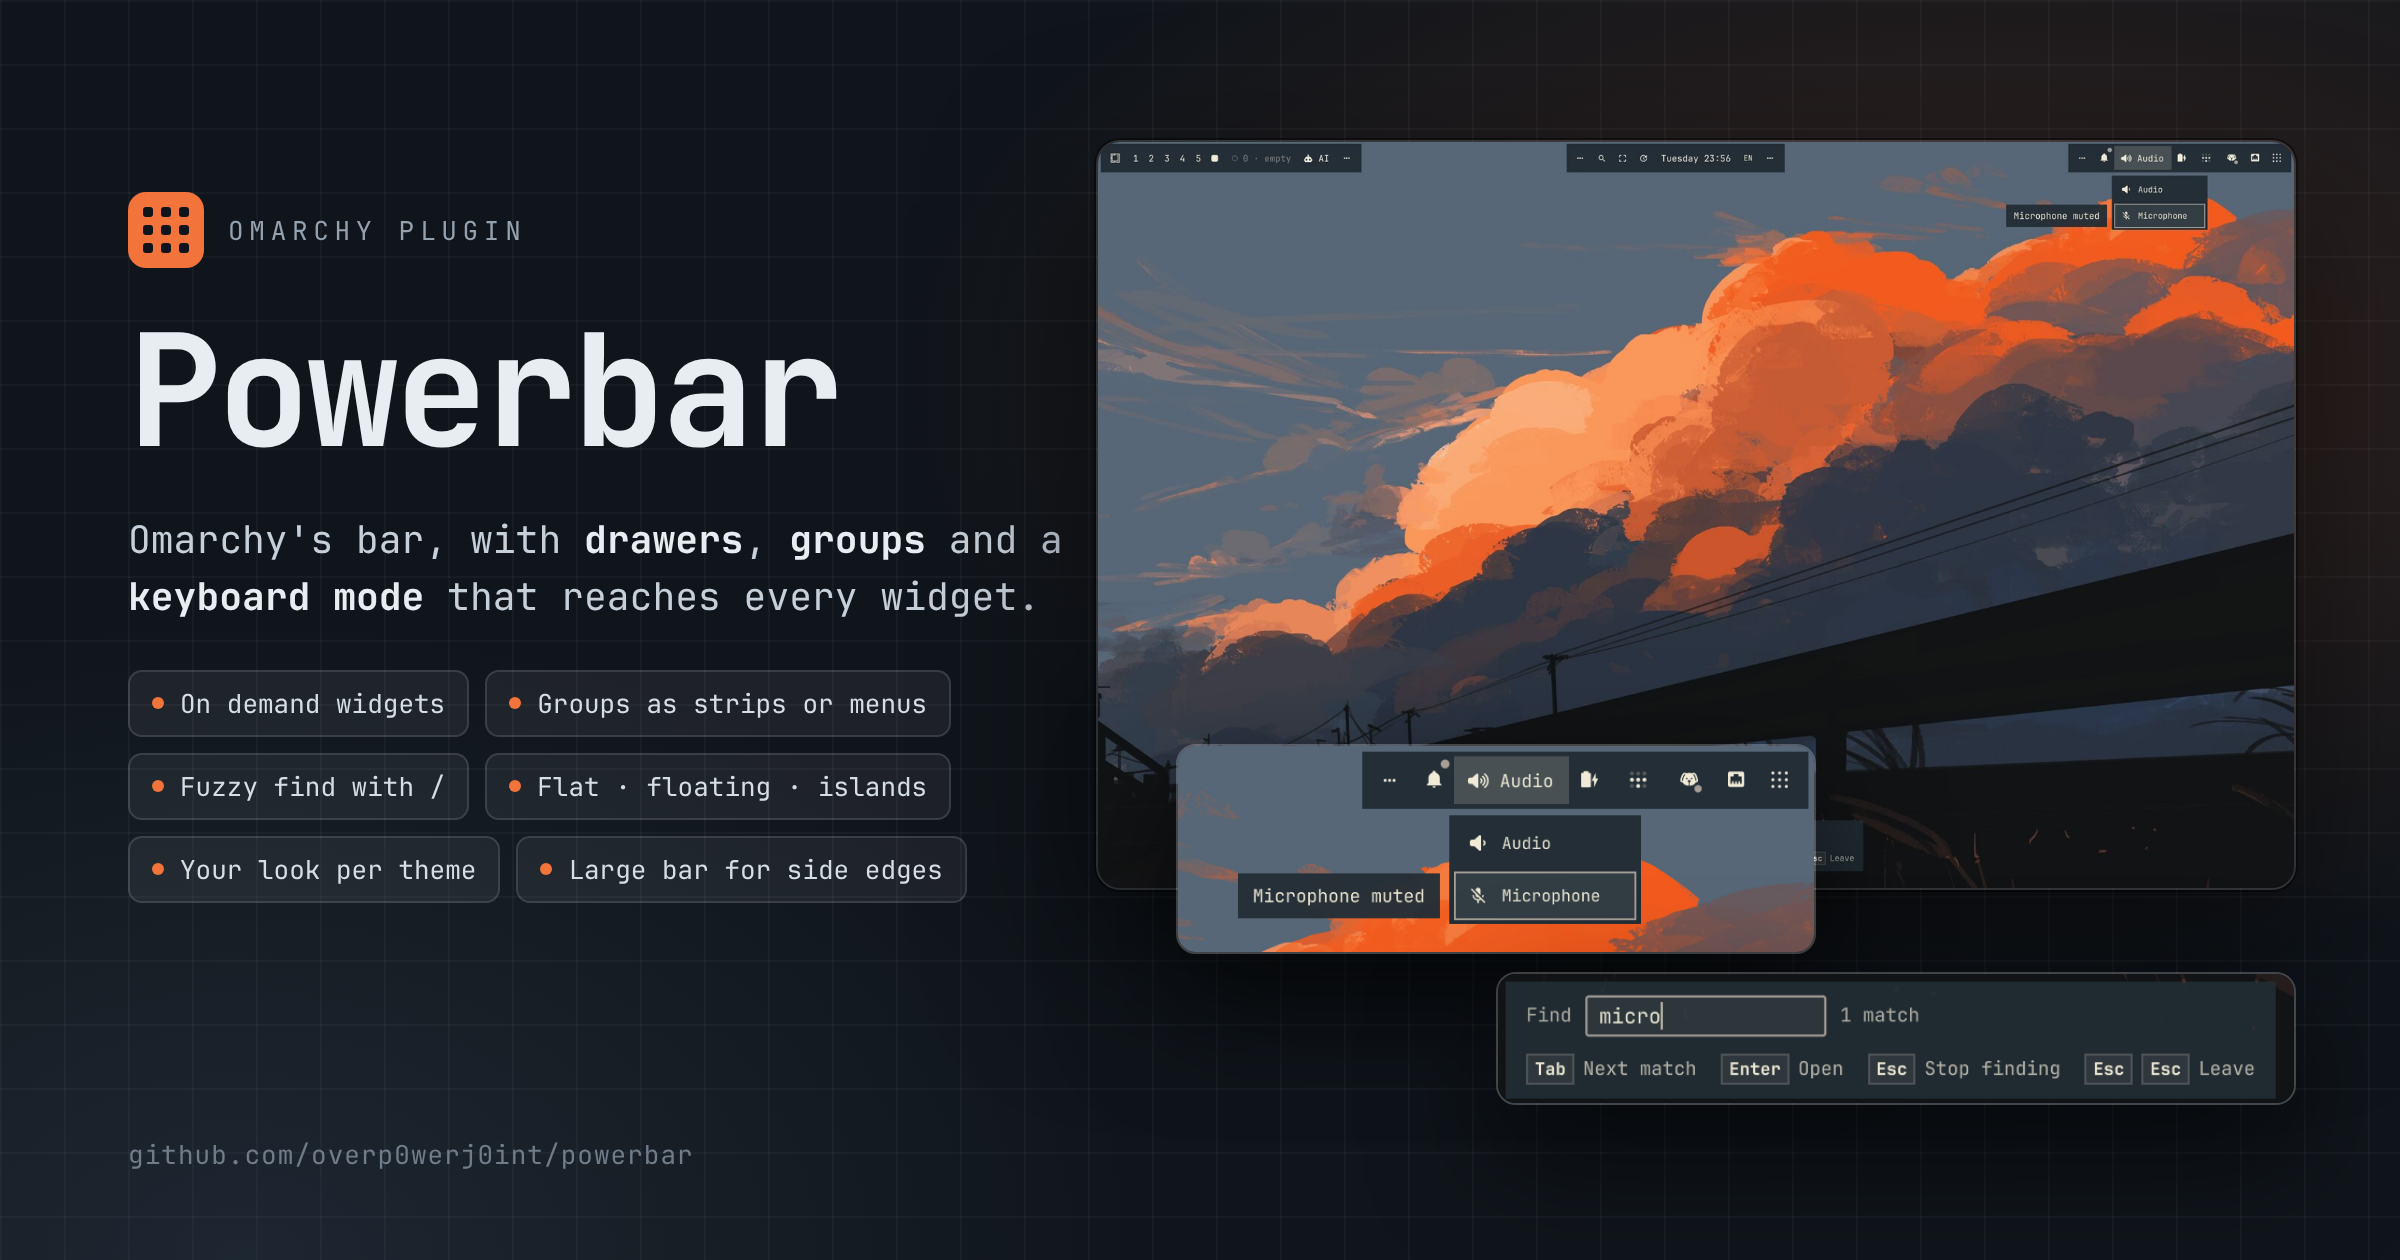
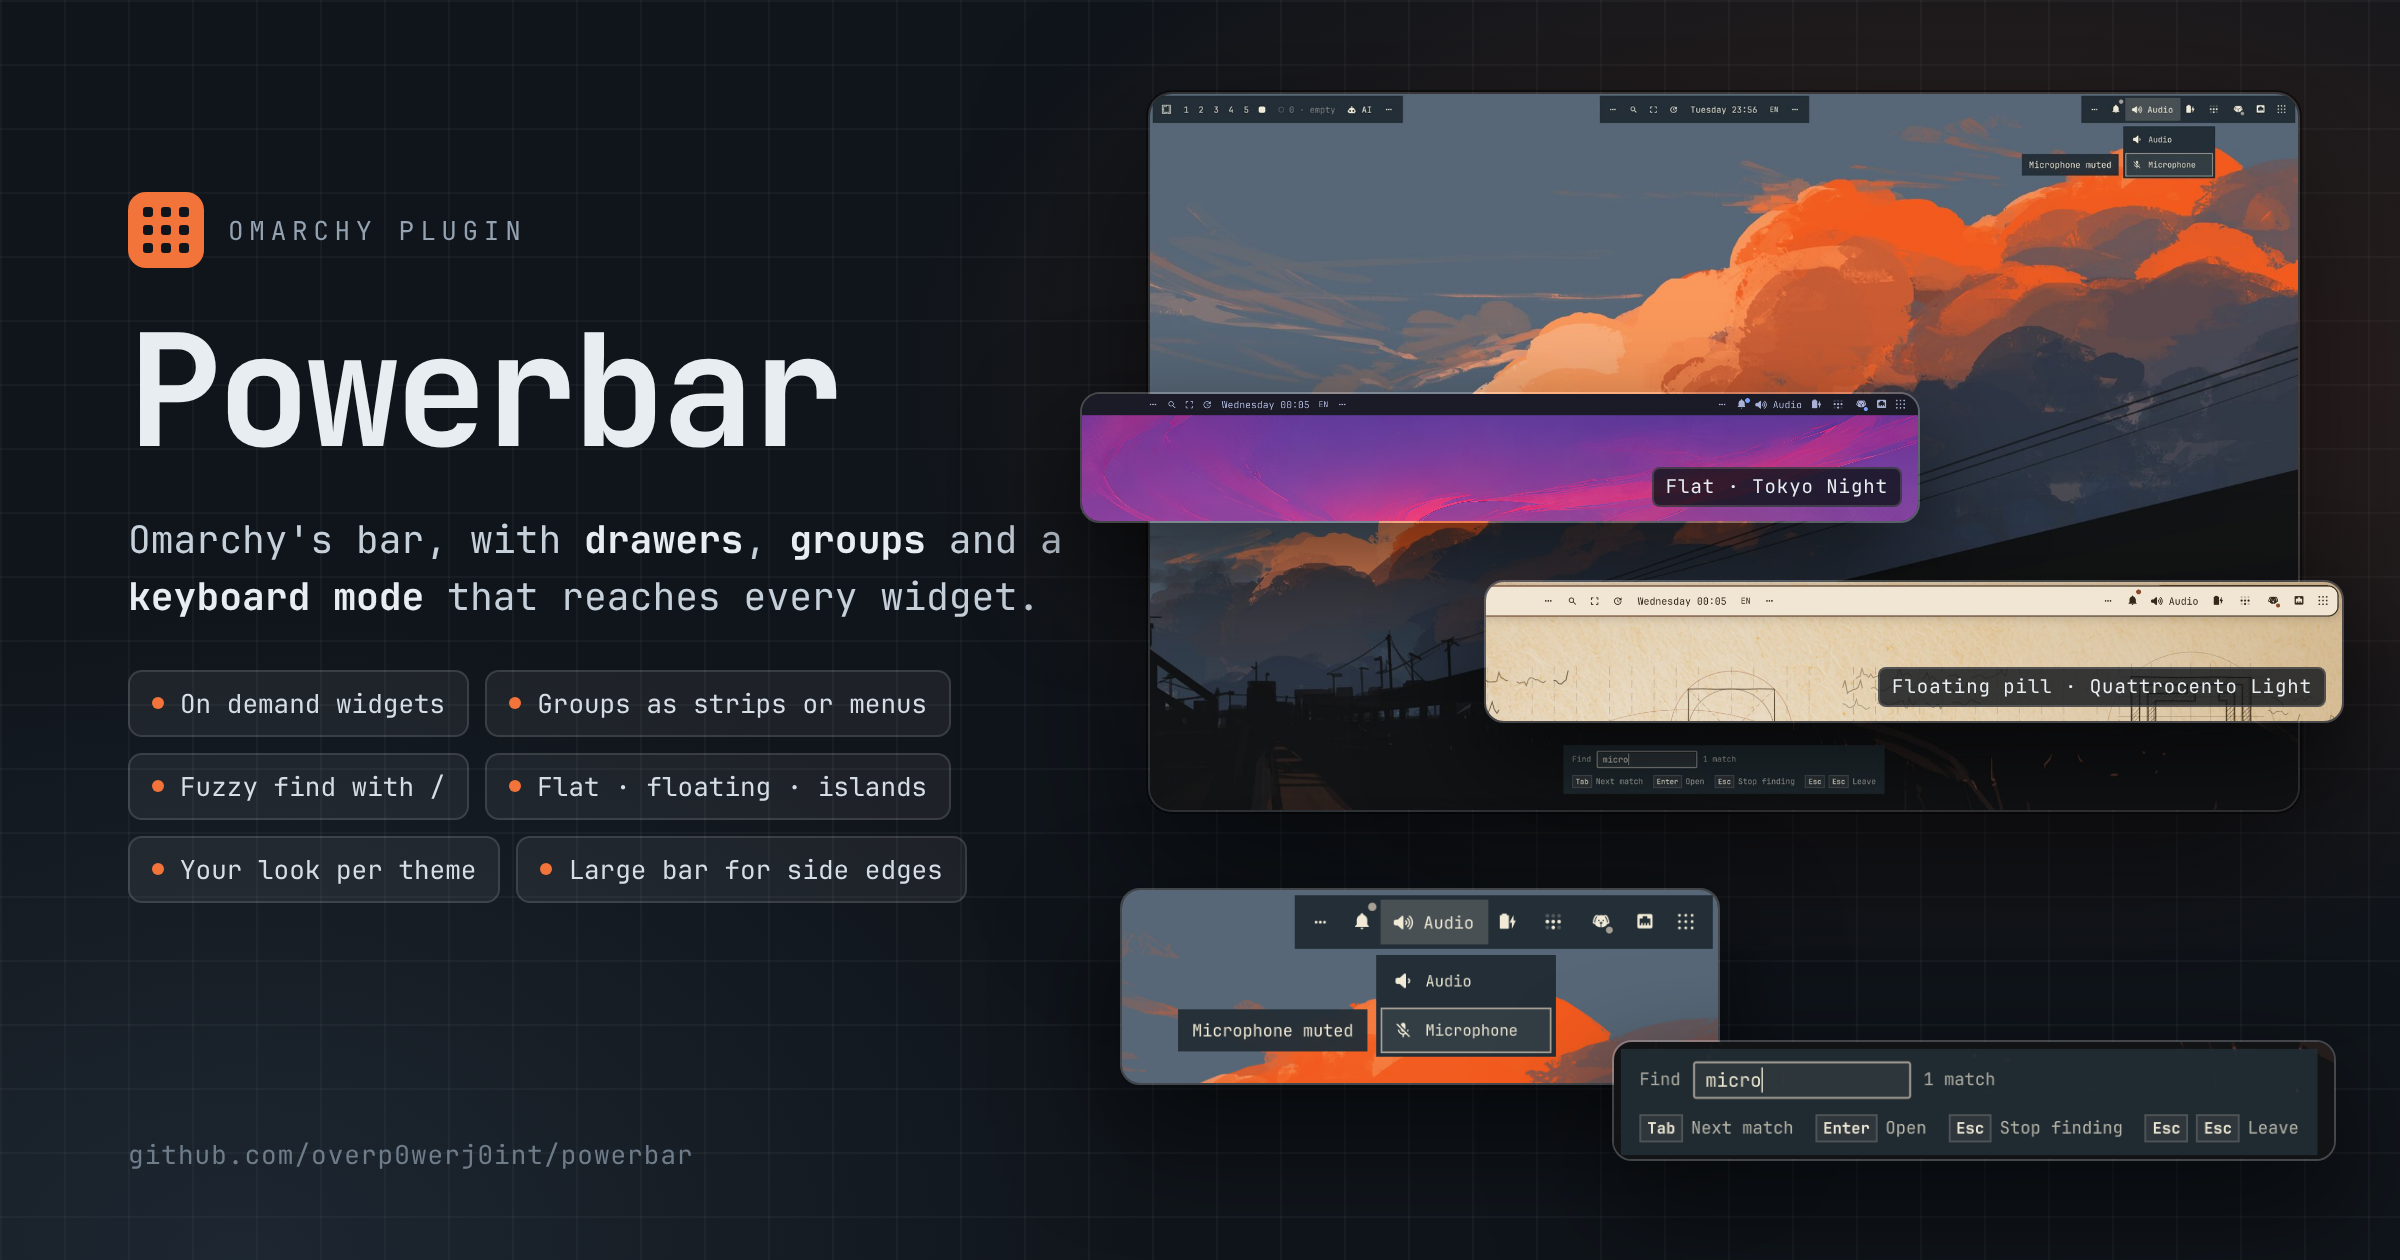
Hero card: a flat bar on Tokyo Night and a floating pill bar on Quattrocento Light
Two inserts across the live screenshot show the range of looks: Omarchy's
flat full-width bar on tokyo-night, and a floating bar with pill corners, a
1.5 px border and a soft shadow on quattrocento-light (large bar). Real
captures taken on an empty workspace with the bar held out; the user's
theme, position and appearance were put back by renaming the backup into
place, then checked identical. The keyboard close-ups move along the bottom.

Changed region(s): [[0.4375, 0.0619, 1.0, 0.9286]]

diff --git a/tools/showcase/card.html b/tools/showcase/card.html
@@ -37,17 +37,23 @@
   .chip::before { content: ""; display: inline-block; width: 6px; height: 6px; border-radius: 50%; background: var(--accent); margin-right: 8px; vertical-align: 2px }
   .foot { position: absolute; left: 64px; bottom: 44px; font-size: 13px; color: #6f7d8b; letter-spacing: .04em }
   .shot {
-    position: absolute; right: 52px; top: 70px; width: 600px; height: 375px; border-radius: 12px; overflow: hidden;
+    position: absolute; left: 574px; top: 46px; width: 576px; height: 360px; border-radius: 12px; overflow: hidden;
     border: 1px solid var(--line); box-shadow: 0 30px 80px rgba(0, 0, 0, .55), 0 0 0 1px rgba(0, 0, 0, .4);
   }
   .shot img { width: 100%; height: 100%; object-fit: cover; display: block }
-  .callout {
-    position: absolute; width: 330px; border-radius: 10px; overflow: hidden; border: 1px solid rgba(255, 255, 255, .22);
-    box-shadow: 0 24px 60px rgba(0, 0, 0, .6);
+  .insert, .callout {
+    position: absolute; border-radius: 10px; overflow: hidden; border: 1px solid rgba(255, 255, 255, .22);
+    box-shadow: 0 22px 56px rgba(0, 0, 0, .6);
   }
-  .callout img { width: 100%; display: block }
-  .callout.audio { left: 588px; top: 372px; width: 320px }
-  .callout.keys { right: 52px; top: 486px; width: 400px }
+  .insert img, .callout img { width: 100%; display: block }
+  .insert .tag {
+    position: absolute; right: 8px; bottom: 7px; font-size: 9.5px; letter-spacing: .05em; padding: 2px 6px; border-radius: 4px;
+    background: rgba(16, 21, 27, .82); color: #e8edf2; border: 1px solid rgba(255, 255, 255, .14);
+  }
+  .insert.flat { left: 540px; top: 196px; width: 420px }
+  .insert.floating { left: 742px; top: 290px; width: 430px }
+  .callout.audio { left: 560px; top: 444px; width: 300px }
+  .callout.keys { left: 806px; top: 520px; width: 362px }
 </style>
 </head>
 <body>
@@ -66,6 +72,8 @@
   </div>
   <div class="foot">github.com/overp0werj0int/powerbar</div>
   <div class="shot"><img src="../../screenshots/hero.jpg" alt=""></div>
+  <div class="insert flat"><img src="../../screenshots/insert-flat-tokyo-night.png" alt=""><span class="tag">Flat · Tokyo Night</span></div>
+  <div class="insert floating"><img src="../../screenshots/insert-floating-quattrocento.png" alt=""><span class="tag">Floating pill · Quattrocento Light</span></div>
   <div class="callout audio"><img src="../../screenshots/callout-audio.png" alt=""></div>
   <div class="callout keys"><img src="../../screenshots/callout-keys.png" alt=""></div>
 </body>
